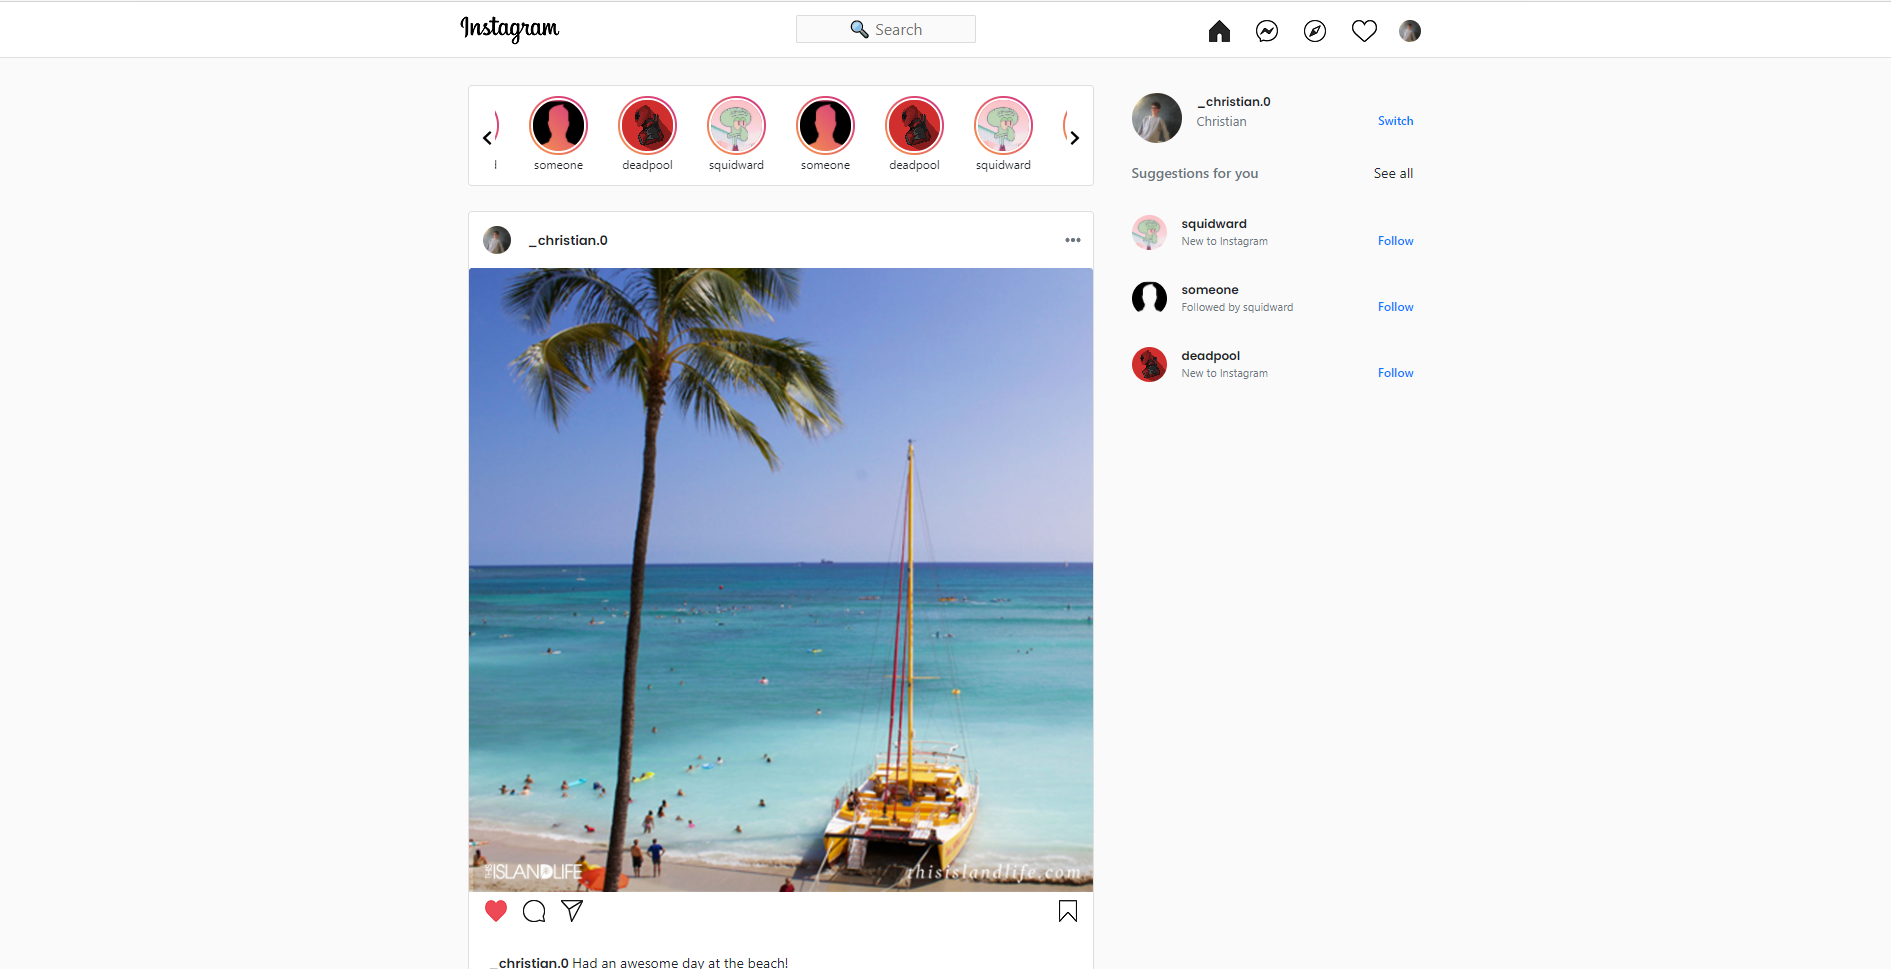
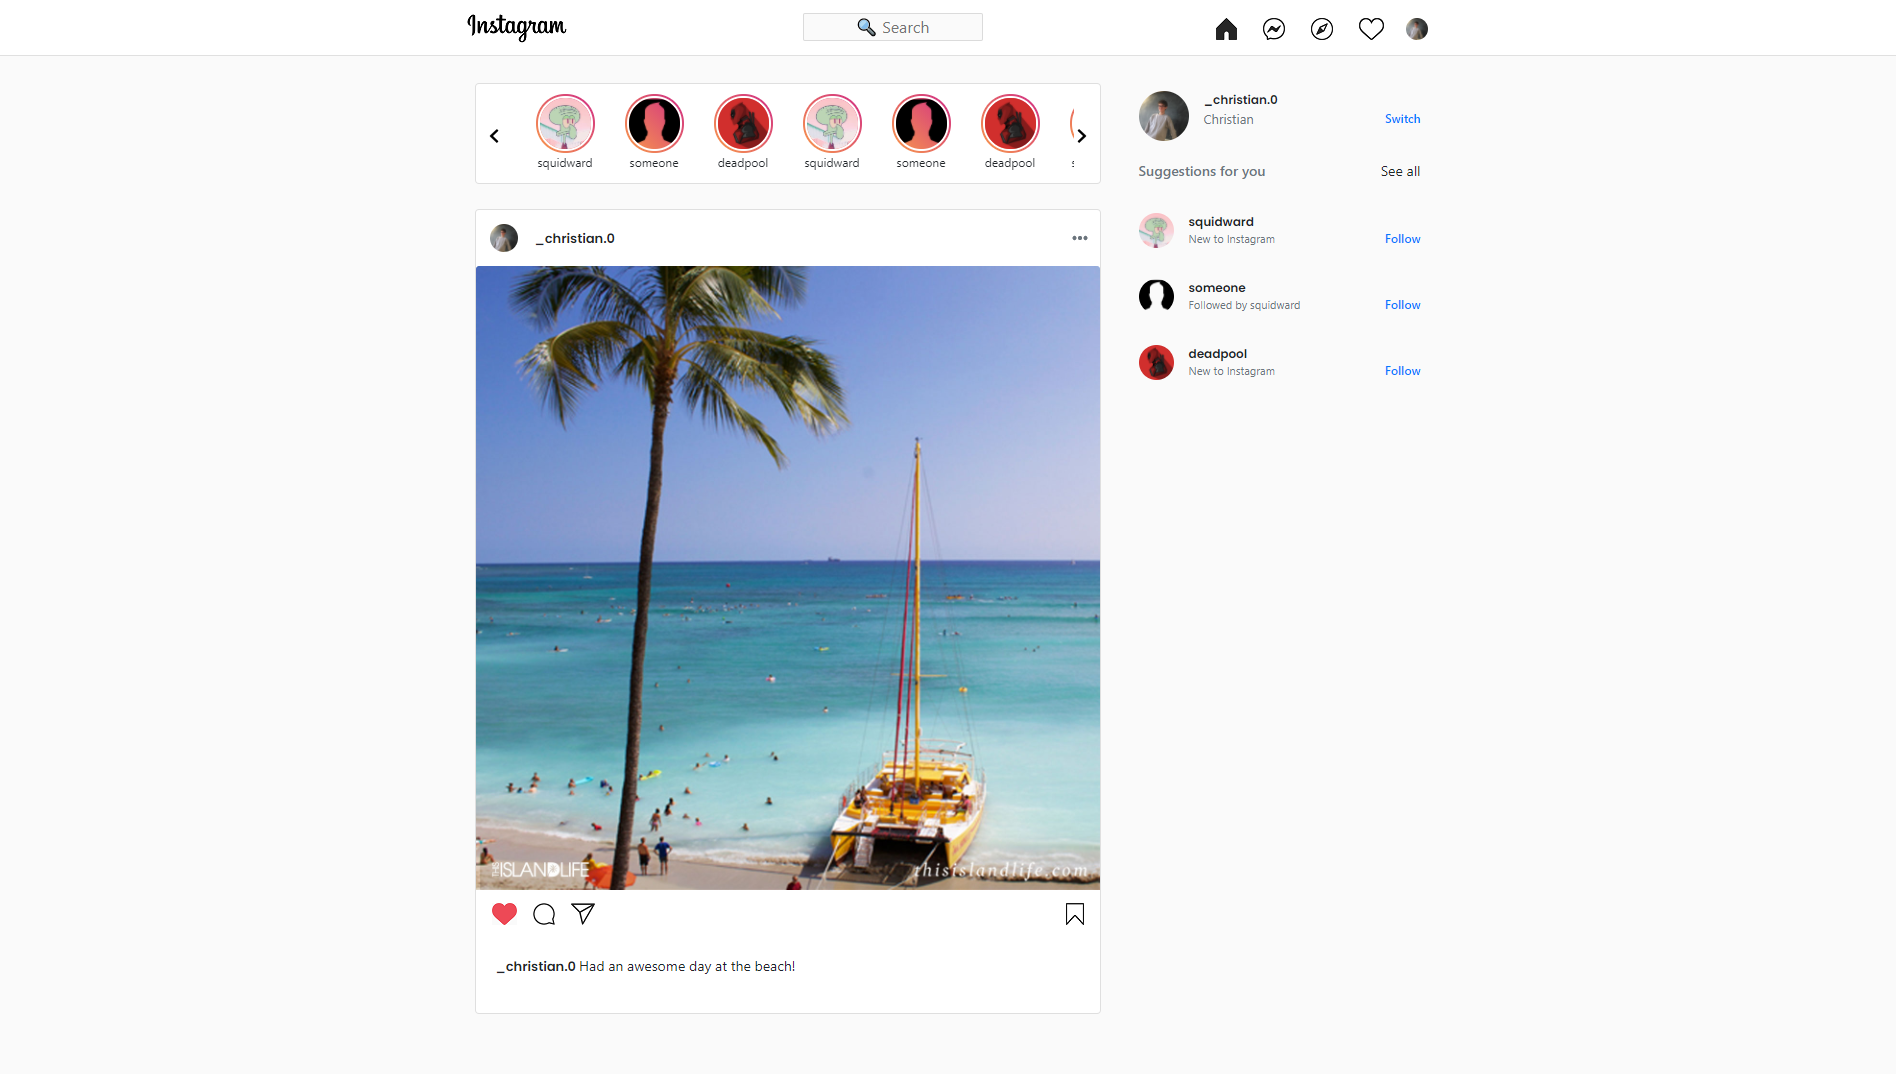
small margin stuff

diff --git a/src/Components/user_post/user_post.js b/src/Components/user_post/user_post.js
@@ -10,10 +10,6 @@ import save from '../../assets/icons/save.png'
 import './user_post.css'
 
 class UserPost extends Component {
-    constructor(props) {
-        super(props);
-    }
-
     render() {
         return (
             <Card className="post">
@@ -30,7 +26,7 @@ class UserPost extends Component {
 
                 <Card.Img src={this.props.img} variant="top"/>
                 <Container>
-                    <Row className="d-flex">
+                    <Row className="d-flex actions">
                         <Image src={this.props.liked ? likeFilled : likeOutline} className="action" alt="like"/>
                         <Image src={comment} className="action" alt="comment"/>
                         <Image src={share} className="action" alt="share"/>
@@ -38,7 +34,6 @@ class UserPost extends Component {
                     </Row>
                 </Container>
                 <Card.Body>
-
                     <Card.Text>
                         <p><span className="username-in-caption">{this.props.username} </span> <span
                             className="caption-content">{this.props.caption}</span></p>

diff --git a/src/App.js b/src/App.js
@@ -1,11 +1,11 @@
 import {Col, Container, Row} from "react-bootstrap";
 import {Component} from "react";
 
-import Header from "./Components/header/header";
-import Posts from "./Components/user_post/posts";
-import SideBar from "./Components/side_suggestions/side_bar";
-import Stories from './Components/stories/stories'
-import './Components/global.css'
+import Header from "./components/header/header";
+import Posts from "./components/user_post/posts";
+import SideBar from "./components/side_suggestions/side_bar";
+import Stories from './components/stories/stories'
+import './components/global.css'
 import './App.css';
 
 

diff --git a/src/Components/side_suggestions/side_bar.js b/src/Components/side_suggestions/side_bar.js
@@ -1,5 +1,5 @@
 import {Component} from "react";
-import {Col, Container, Row} from "react-bootstrap";
+import {Container, Row} from "react-bootstrap";
 
 import profileImg from "../../assets/profiles/1/profile.png";
 import SideSuggestion from "./side_suggestion";

diff --git a/src/Components/side_suggestions/side_suggestion.js b/src/Components/side_suggestions/side_suggestion.js
@@ -4,10 +4,6 @@ import {Col, Image, Row} from "react-bootstrap";
 import './side.css'
 
 class SideSuggestion extends Component {
-    constructor(props) {
-        super(props);
-    }
-
     render() {
         return (
             <Row>

diff --git a/src/Components/side_suggestions/side_user.js b/src/Components/side_suggestions/side_user.js
@@ -4,10 +4,6 @@ import {Col, Image, Row} from "react-bootstrap";
 import './side.css'
 
 class SideUser extends Component {
-    constructor(props) {
-        super(props);
-    }
-
     render() {
         return (
             <Row>

diff --git a/src/Components/stories/story.js b/src/Components/stories/story.js
@@ -4,11 +4,6 @@ import './stories.css'
 import {Col, Image} from "react-bootstrap";
 
 class Story extends Component {
-
-    constructor(props) {
-        super(props);
-    }
-
     render() {
         return (
             <Col>

diff --git a/src/Components/header/header.js b/src/Components/header/header.js
@@ -1,5 +1,5 @@
 import {Component} from 'react'
-import {Container, Form, Image, Nav, Navbar} from "react-bootstrap";
+import {Container, Form, Nav, Navbar} from "react-bootstrap";
 
 
 import './header.css'

diff --git a/src/Components/user_post/posts.js b/src/Components/user_post/posts.js
@@ -12,10 +12,6 @@ import UserPost from "./user_post";
 
 
 class Posts extends Component {
-    constructor(props) {
-        super(props);
-    }
-
     render() {
         return (
             <div>

diff --git a/src/Components/header/search.js b/src/Components/header/search.js
@@ -1,4 +1,4 @@
-import React, {Component} from 'react'
+import React from 'react'
 
 import './search.css'
 

diff --git a/src/Components/user_post/user_post.css b/src/Components/user_post/user_post.css
@@ -40,3 +40,8 @@
 .caption-content{
     font-size: 14px;
 }
+
+
+.actions{
+    margin-top: 5px;
+}

diff --git a/src/Components/header/header.css b/src/Components/header/header.css
@@ -28,6 +28,7 @@
     object-fit: cover;
 }
 
+
 #nav{
     width: 100%;
 }
